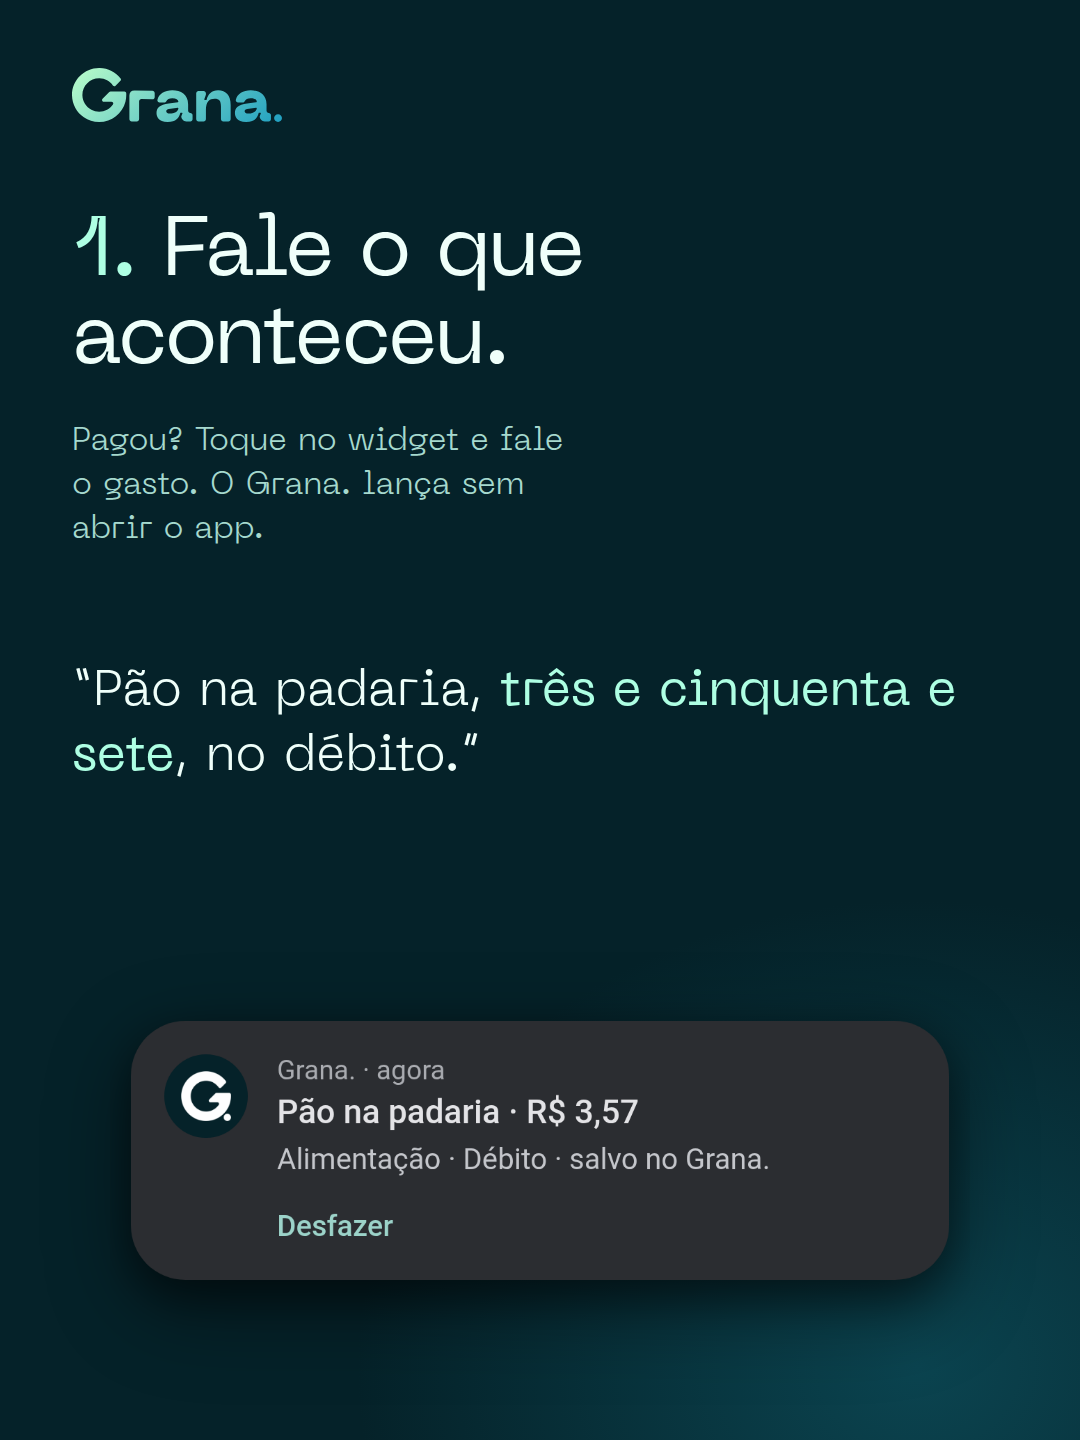
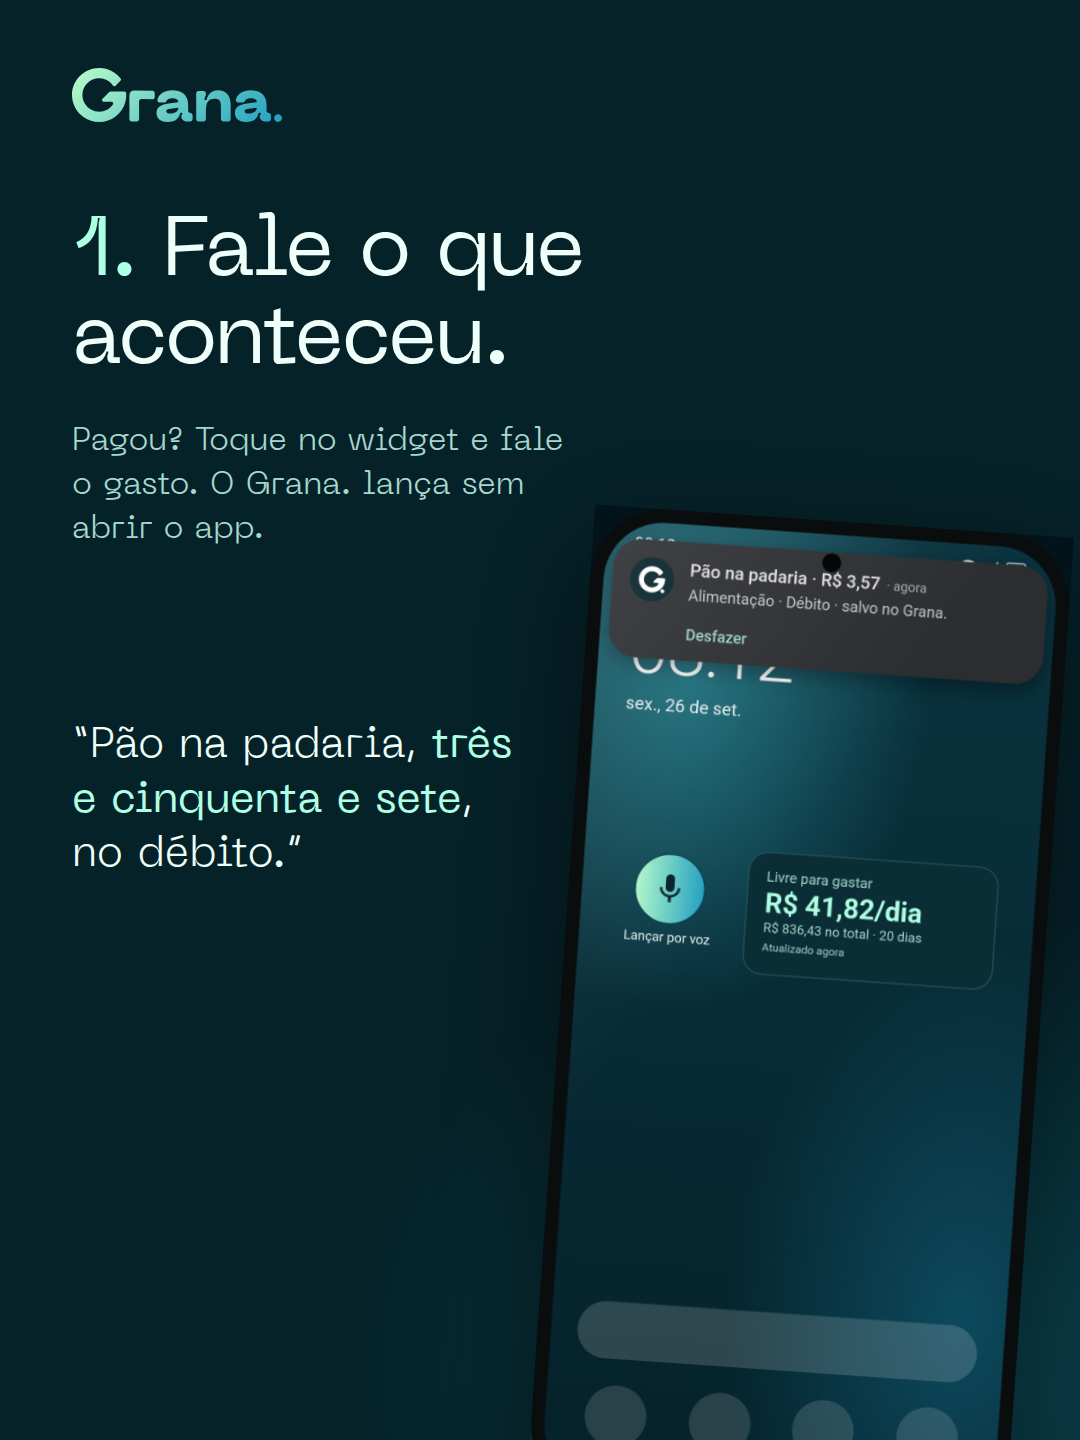
docs(marketing): S2 pagina 2 com o celular do widget do motion aprovado
Claude-Session: https://claude.ai/code/session_01Fv8uFkxWiJMthXkKAtJfu8

Changed region(s): [[0.0611, 0.3438, 1.0, 1.0]]

diff --git a/docs/marketing/funil-criativos-flat-2026-09/S2-tres-jeitos/S2.html b/docs/marketing/funil-criativos-flat-2026-09/S2-tres-jeitos/S2.html
@@ -48,9 +48,8 @@ em{font-style:normal;color:#aeffe3}
  <img class="logo" src="../../../../design-system/marca/logotipo-gradiente.svg">
  <div class="h1"><em>1.</em> Fale o que aconteceu.</div>
  <div class="h2" style="top:420px">Pagou? Toque no widget e fale o gasto. O Grana. lança sem abrir o app.</div>
- 
- <div class="fala" style="left:72px;top:660px;width:900px;font-size:50px">“Pão na padaria, <b>três e cinquenta e sete</b>, no débito.”</div>
- <img class="nt" src="../../arsenal/notificacoes/gasto-salvo-padaria.png" style="left:110px;top:1000px;width:860px">
+ <div class="fala" style="left:72px;top:720px;width:440px;font-size:42px">“Pão na padaria, <b>três e cinquenta e sete</b>, no débito.”</div>
+ <img src="telas/cel-widget-motion.png" style="position:absolute;left:560px;top:520px;width:480px;transform:rotate(4deg);filter:drop-shadow(0 40px 60px rgba(0,0,0,.5));z-index:2">
 </div>
 <!-- 3 cole -->
 <div class="s" id="s3">

diff --git a/docs/marketing/funil-criativos-flat-2026-09/S2-tres-jeitos/README.md b/docs/marketing/funil-criativos-flat-2026-09/S2-tres-jeitos/README.md
@@ -5,7 +5,7 @@ Carrossel de feed com 7 slides em 1080×1440. É o S2 do calendário do `FUNIL.m
 | Slide | Texto | Visual |
 |---|---|---|
 | 1 | Três jeitos de lançar um gasto **sem interromper o dia.** | lista "Fale / Cole o Pix / Fotografe a nota", com ícones pequenos do arsenal só de detalhe, e o celular com a tela real de Lançamentos |
-| 2 | **1.** Fale o que aconteceu. | a fala entre aspas, grande, e a notificação real "Pão na padaria · R$ 3,57" |
+| 2 | **1.** Fale o que aconteceu. | a fala entre aspas e o celular do motion "desistiu" aprovado: tela inicial com o widget de voz, o widget "Livre para gastar" e a notificação "Pão na padaria · R$ 3,57" (`telas/cel-widget-motion.png`, quadro em 8,1 s de `../../motion-desistiu/index.html`) |
 | 3 | **2.** Cole o texto do Pix. | celular com a **tela real** "Colar comprovante ou Pix" (quadro do `r5-clipe.mp4`, com o acento corrigido) |
 | 4 | **3.** Fotografe a nota. | cupom estilizado, sem texto legível, dentro dos cantos de mira em menta, como a moldura do leitor do app. Não há tela, porque a função ainda não está publicada |
 | 5 | O Grana. **organiza** o lançamento. | celular com a **tela real** "Confirmar lançamento" (Mercado Modelo, R$ 32,90, Alimentação) |
